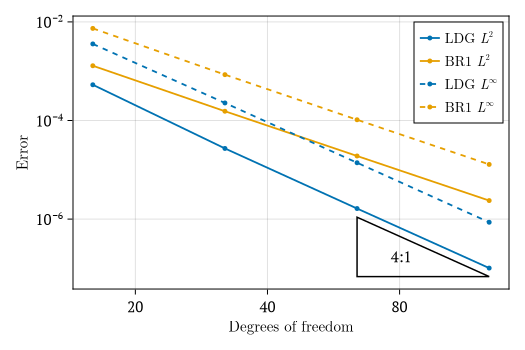
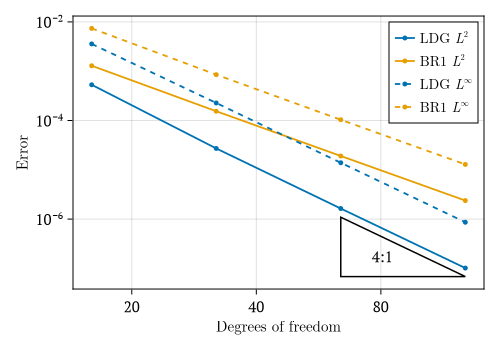
update plot sizes

diff --git a/README.md b/README.md
@@ -66,7 +66,7 @@ plot_solution_1d(sol;
                  component = 2,
                  xlabel = L"$z$ (m)",
                  ylabel = L"$\psi$ (m)",
-                 size = (525, 350),
+                 size = (500, 350),
                  ylims = (-0.65, -0.15),
                  output_path = joinpath("plots",
                                         "richards_celia_1990_pressure_head.png"))
@@ -81,7 +81,7 @@ animate_solution_1d(sol;
                     component = 2,
                     xlabel = L"$z$ (m)",
                     ylabel = L"$\psi$ (m)",
-                    size = (525, 350),
+                    size = (500, 350),
                     ylims = (-0.65, -0.15),
                     output_path = joinpath("plots",
                                            "richards_celia_1990_pressure_head.gif"),
@@ -115,7 +115,7 @@ using LaTeXStrings
 
 plot_solution_1d(sol;
                  exact_solution = exact_solution,
-                 size = (525, 350),
+                 size = (500, 350),
                  output_path = joinpath("plots",
                                         "diffusion_equation_1d_mixed_dirichlet_neumann_solution.png"))
 ```
@@ -126,7 +126,7 @@ Generate an animation from the same solution:
 ```julia
 animate_solution_1d(sol;
                     exact_solution = exact_solution,
-                    size = (525, 350),
+                    size = (500, 350),
                     output_path = joinpath("plots",
                                            "diffusion_equation_1d_mixed_dirichlet_neumann_solution_long.gif"),
                     ylims = (0.5, 1.5),
